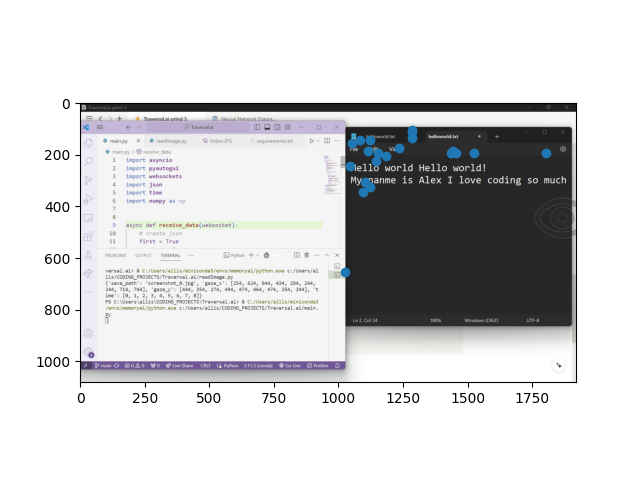
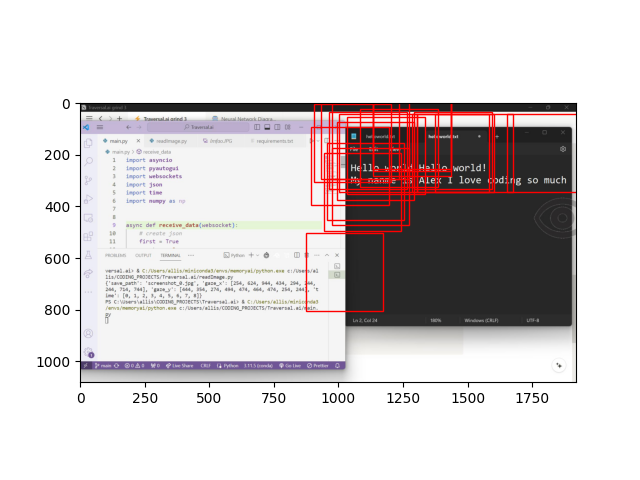
changed drawn points to boxes

Changed region(s): [[0.4688, 0.2188, 0.9062, 0.6562], [0.8438, 0.3125, 0.875, 0.3438], [0.5312, 0.5625, 0.5625, 0.5938]]

diff --git a/readImage.py b/readImage.py
@@ -3,21 +3,45 @@ import pytesseract
 import numpy as np
 import matplotlib.pyplot as plt
 import json
+import matplotlib.patches as patches
 
 
 def draw_on_image():
+    # img = plt.imread("screenshot_0.jpg")
+    # fig, ax = plt.subplots()
+
+    # with open("screenshot_0.json") as f:
+    #     screenshot_data = json.load(f)
+    #     print(screenshot_data)
+
+    # ax.imshow(img)
+    # x = screenshot_data["gaze_x"]
+    # y = screenshot_data["gaze_y"]
+
+    # ax.scatter(x, y)
+    # plt.savefig("screenshot_with_draw_0")
+    # # plt.show()
+
+    # gpt code
     img = plt.imread("screenshot_0.jpg")
     fig, ax = plt.subplots()
 
     with open("screenshot_0.json") as f:
         screenshot_data = json.load(f)
-        print(screenshot_data)
 
     ax.imshow(img)
+
     x = screenshot_data["gaze_x"]
     y = screenshot_data["gaze_y"]
 
-    ax.scatter(x, y)
+    # Assuming each point in x and y is a center of a square
+    for xi, yi in zip(x, y):
+        # Create a square as a rectangle, adjust the conversion from pixels to data coordinates as needed
+        square = patches.Rectangle(
+            (xi - 150, yi - 150), 300, 300, linewidth=1, edgecolor="r", facecolor="none"
+        )
+        ax.add_patch(square)
+
     plt.savefig("screenshot_with_draw_0")
     # plt.show()
 
@@ -31,7 +55,7 @@ def read_image():
 
     # write code to draw a box at the different points, this is where you're going to OCR.
     # define width and height of this box
-    crop_width, crop_height = 300, 200
+    crop_width, crop_height = 300, 300
 
     timesteps = screenshot_data["time"]
 
@@ -64,9 +88,9 @@ if __name__ == "__main__":
         r"c:\Users\allis\AppData\Local\Programs\Tesseract-OCR\tesseract.exe"
     )
 
-    # draw_on_image()
+    draw_on_image()
 
-    read_image()
+    # read_image()
 
-    # draw this to visualize and adjust how big your OCR boxes should be
+    # draw these cropped images to visualize and adjust how big your OCR boxes should be
     # you might be unnecessarily converting to numpy arrays and then back to images.
